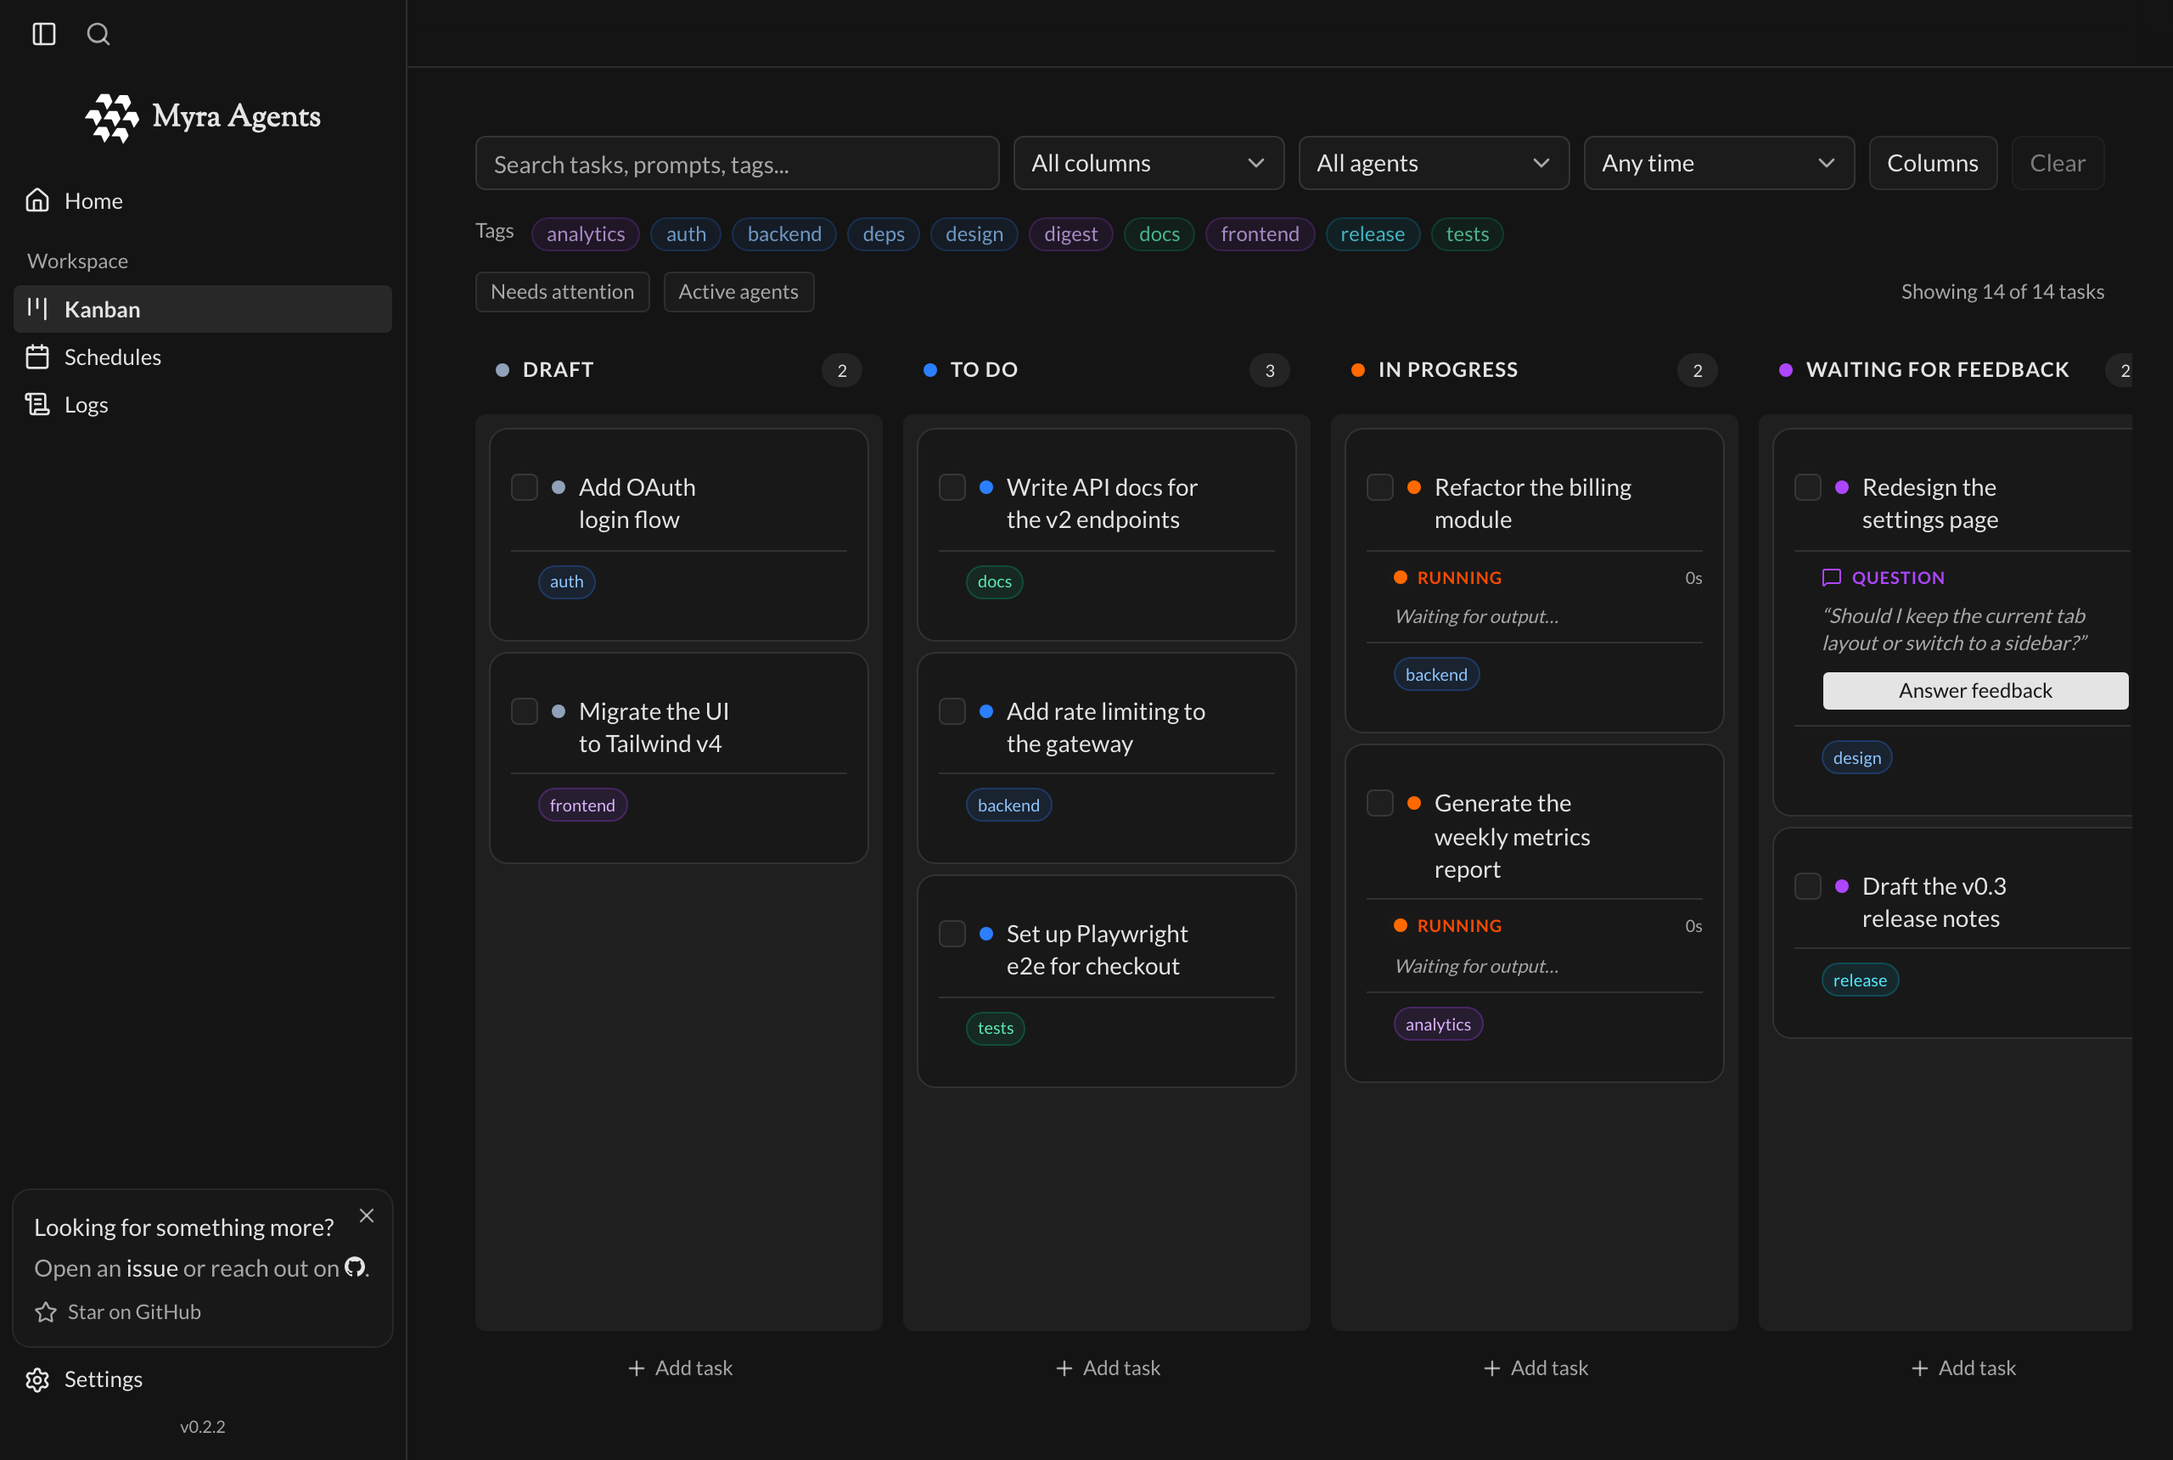
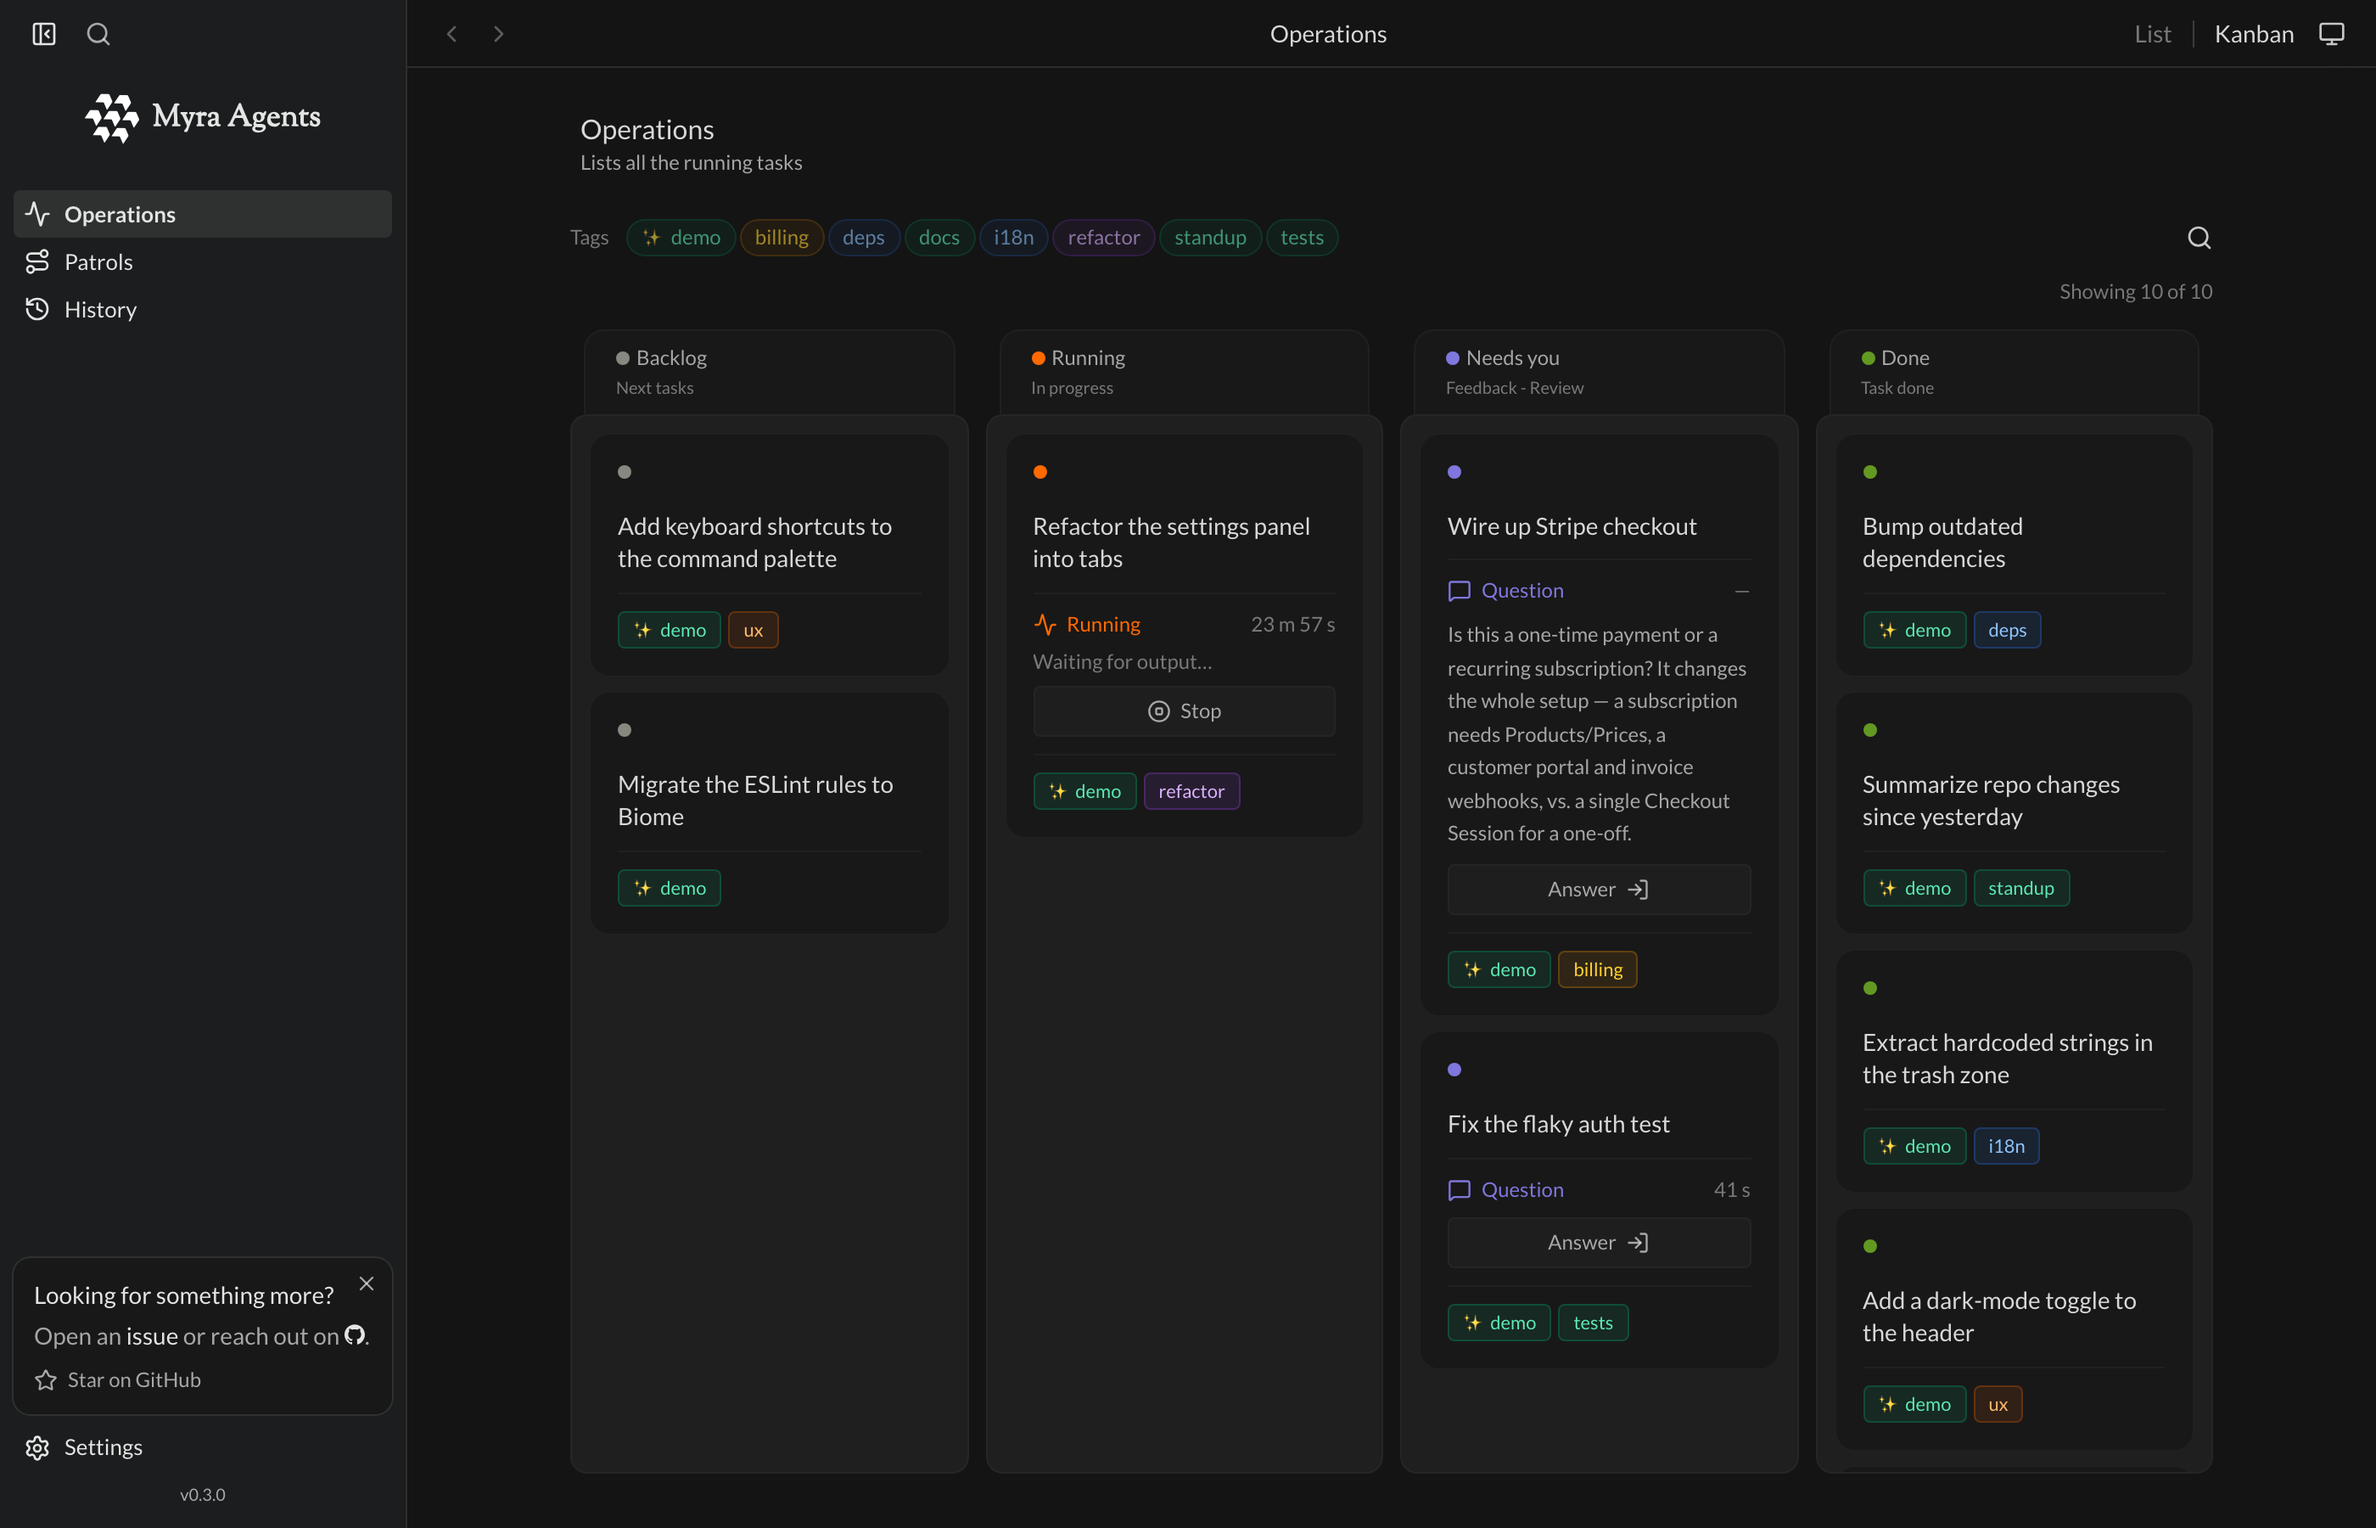
Refresh screenshots with the new UI and a real macOS window
Hero now shows the actual desktop app window — native integrated
traffic lights instead of the fake CSS ones — and all screens are
retaken from the v0.3.0 UI (Operations list + kanban, Patrols,
History, Agent settings), with copy updated to the new nav names.

diff --git a/index.html b/index.html
@@ -18,13 +18,13 @@
   <meta property="og:title" content="Myra Agents — your AI workforce, running 24/7" />
   <meta property="og:description" content="Delegate the repetitive work you'd rather not do. Set up your AI agents once and they run on their own, on schedule, even while you sleep. A local-first desktop app — your machine, your keys." />
   <meta property="og:url" content="https://myra-agents.github.io" />
-  <meta property="og:image" content="https://myra-agents.github.io/assets/screens/kanban-board.png" />
-  <meta property="og:image:width" content="2560" />
-  <meta property="og:image:height" content="1720" />
+  <meta property="og:image" content="https://myra-agents.github.io/assets/screens/operations.png" />
+  <meta property="og:image:width" content="2800" />
+  <meta property="og:image:height" content="1800" />
   <meta name="twitter:card" content="summary_large_image" />
   <meta name="twitter:title" content="Myra Agents — your AI workforce, running 24/7" />
   <meta name="twitter:description" content="Delegate the repetitive work you'd rather not do. Put a team of AI agents to work for you — running on their own, on schedule, even while you sleep. Local-first, your keys." />
-  <meta name="twitter:image" content="https://myra-agents.github.io/assets/screens/kanban-board.png" />
+  <meta name="twitter:image" content="https://myra-agents.github.io/assets/screens/operations.png" />
 
   <!-- PostHog analytics: autocapture + session replay, tagged by environment. -->
   <script>
@@ -140,13 +140,8 @@
 
       <!-- Hero screenshot -->
       <div class="mx-auto mt-16 max-w-5xl">
-        <div class="overflow-hidden rounded-xl border border-white/10 bg-slate-900/60 shadow-2xl ring-1 ring-white/10 backdrop-blur">
-          <div class="flex items-center gap-1.5 border-b border-white/10 px-4 py-3">
-            <span class="h-3 w-3 rounded-full bg-red-400/80"></span>
-            <span class="h-3 w-3 rounded-full bg-yellow-400/80"></span>
-            <span class="h-3 w-3 rounded-full bg-green-400/80"></span>
-          </div>
-          <img src="assets/screens/kanban-board.png" alt="Myra Agents Kanban board with Draft, To Do, In Progress and Waiting lanes" class="w-full" />
+        <div class="overflow-hidden rounded-xl shadow-2xl ring-1 ring-white/10">
+          <img src="assets/screens/operations.png" alt="Myra Agents desktop app on macOS — Operations view with Backlog, Running, Needs you and Done counters over the list of agent runs" class="w-full" />
         </div>
       </div>
     </div>
@@ -164,7 +159,7 @@
       <div class="rounded-2xl border border-slate-200 p-6 transition hover:border-brand/40 hover:shadow-sm">
         <div class="mb-4 inline-flex h-10 w-10 items-center justify-center rounded-xl bg-brand/10 text-brand">▦</div>
         <h3 class="font-semibold">See where every task stands</h3>
-        <p class="mt-2 text-sm leading-relaxed text-slate-600">A native Kanban view of your agents. Cards move themselves: Draft → To Do → In Progress → Waiting Feedback → Awaiting Review → Done, driven by what the agent reports.</p>
+        <p class="mt-2 text-sm leading-relaxed text-slate-600">List or Kanban — see every operation at a glance. Cards move themselves: Backlog → Running → Needs you → Done, driven by what the agent reports.</p>
       </div>
       <div class="rounded-2xl border border-slate-200 p-6 transition hover:border-brand/40 hover:shadow-sm">
         <div class="mb-4 inline-flex h-10 w-10 items-center justify-center rounded-xl bg-brand/10 text-brand">⚙</div>
@@ -202,12 +197,12 @@
         <figcaption class="px-5 py-3 text-sm text-slate-600">Define agent presets — binary, args template, working directory.</figcaption>
       </figure>
       <figure class="overflow-hidden rounded-2xl border border-slate-200 bg-slate-50">
-        <img src="assets/screens/schedules.png" alt="Schedules view with recurring and cron-triggered runs" class="w-full" />
-        <figcaption class="px-5 py-3 text-sm text-slate-600">Schedule recurring runs — once, daily, weekly, on an interval, or cron.</figcaption>
+        <img src="assets/screens/patrols.png" alt="Patrols view with recurring and cron-triggered agent runs" class="w-full" />
+        <figcaption class="px-5 py-3 text-sm text-slate-600">Deploy patrols — recurring runs, daily, weekly, on an interval, or cron.</figcaption>
       </figure>
       <figure class="overflow-hidden rounded-2xl border border-slate-200 bg-slate-50">
-        <img src="assets/screens/logs.png" alt="Logs view with each run's full execution output and history" class="w-full" />
-        <figcaption class="px-5 py-3 text-sm text-slate-600">Every run's full output and history, kept on the card.</figcaption>
+        <img src="assets/screens/history.png" alt="History view with every past run — result, duration, agent and token usage" class="w-full" />
+        <figcaption class="px-5 py-3 text-sm text-slate-600">Every run's result, duration and token usage, kept in History.</figcaption>
       </figure>
     </div>
   </section>
@@ -226,7 +221,7 @@
           <div>
             <div class="text-xs font-semibold uppercase tracking-wide text-brand">Write</div>
             <h3 class="mt-2 text-xl font-bold tracking-tight">A card carries a prompt</h3>
-            <p class="mt-3 text-sm leading-relaxed text-slate-600">Add a card with a prompt, pick an agent preset and a working directory. Drafts live in their own lane until you launch them.</p>
+            <p class="mt-3 text-sm leading-relaxed text-slate-600">Add a card with a prompt, pick an agent preset and a working directory. It waits in the Backlog until you launch it.</p>
           </div>
           <img src="assets/screens/kanban-board.png" alt="Myra kanban board" loading="lazy"
                class="w-full rounded-xl ring-1 ring-slate-200 shadow-lg shadow-slate-900/5" />
@@ -246,9 +241,9 @@
           <div>
             <div class="text-xs font-semibold uppercase tracking-wide text-brand">Schedule</div>
             <h3 class="mt-2 text-xl font-bold tracking-tight">Run on cron</h3>
-            <p class="mt-3 text-sm leading-relaxed text-slate-600">Set recurring or cron-triggered runs; cards materialize and advance through the lanes as agents report — no babysitting required.</p>
+            <p class="mt-3 text-sm leading-relaxed text-slate-600">Deploy patrols — recurring or cron-triggered runs; operations materialize and advance on their own as agents report — no babysitting required.</p>
           </div>
-          <img src="assets/screens/schedules.png" alt="Schedules view" loading="lazy"
+          <img src="assets/screens/patrols.png" alt="Patrols view" loading="lazy"
                class="w-full rounded-xl ring-1 ring-slate-200 shadow-lg shadow-slate-900/5" />
         </div>
       </div>
